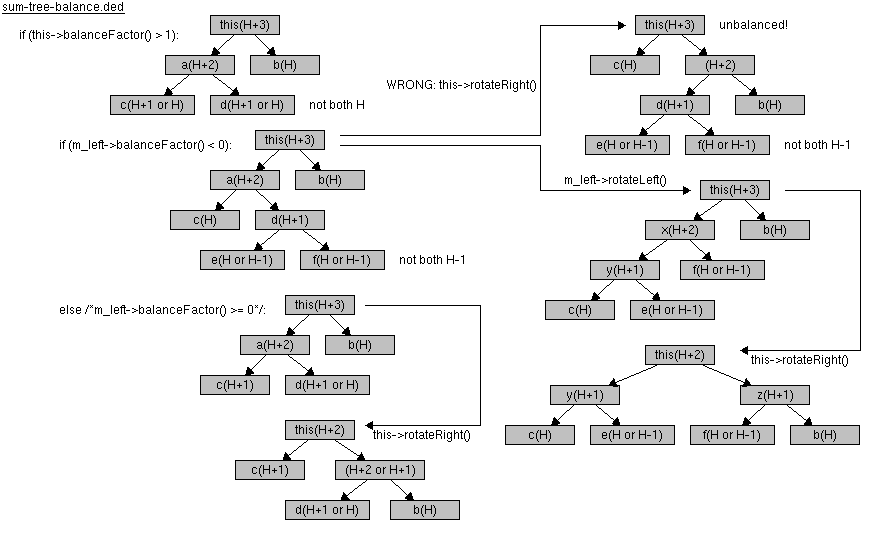
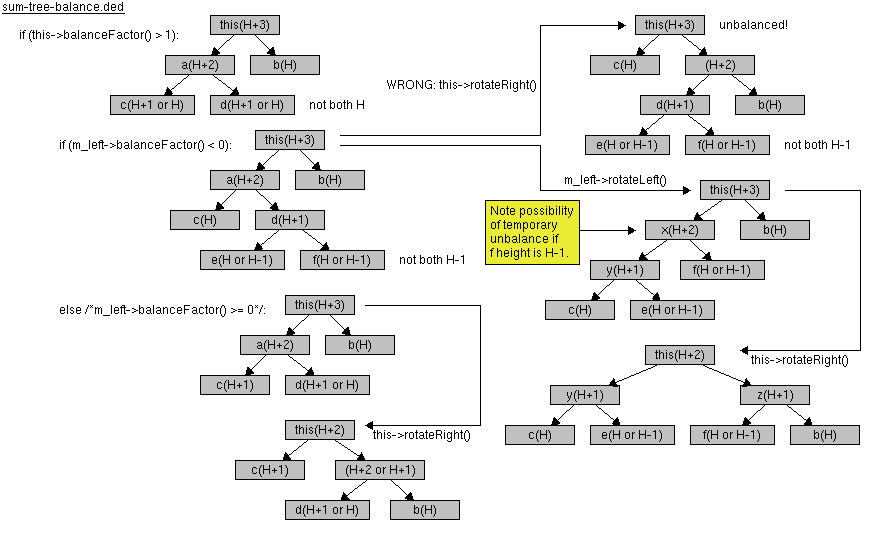
sum-tree: Add: insert.  Fix: rebuild: Cannot check invariants here.

Changed region(s): [[0.543, 0.3406, 0.6637, 0.4954]]

diff --git a/sum-tree.h b/sum-tree.h
@@ -14,7 +14,7 @@
 
 #include "sum-tree-iface.h"            // interface for this module
 
-#include "smbase/chained-cond.h"       // smbase::cc::le_le
+#include "smbase/chained-cond.h"       // smbase::cc::{le_le,z_le_lt,z_le_le}
 #include "smbase/gdvalue-unique-ptr.h" // gdv::toGDValue(std::unique_ptr)
 #include "smbase/gdvalue.h"            // gdv::GDValue
 #include "smbase/get-type-name.h"      // smbase::GetTypeName
@@ -147,7 +147,11 @@ void SumTree<T>::InteriorNode::balance()
     this->rotateLeft();
   }
 
+  // Check invariants after all rotations are finished.  When we do two,
+  // the first can temporarily unbalance its pivot node; see diagram.
   localSelfCheck();
+  m_left->localSelfCheck();
+  m_right->localSelfCheck();
 }
 
 
@@ -206,9 +210,9 @@ void SumTree<T>::InteriorNode::rebuild(NodeUPtr left, NodeUPtr right)
   m_left = std::move(left);
   m_right = std::move(right);
 
-  // Here, recomputation should suffice to restore invariants.
+  // Even after recomputation, balance invariant might be broken.  See
+  // the `sum-tree-balance.ded.png` diagram.
   localRecompute_brokenInvariants();
-  localSelfCheck();
 }
 
 
@@ -271,10 +275,22 @@ SumTree<T>::InteriorNode::operator gdv::GDValue() const
 
 
 template <typename T>
-auto SumTree<T>::InteriorNode::append(T const &t) -> NodeUPtr
+auto SumTree<T>::InteriorNode::insert(size_type index, T const &t)
+  -> NodeUPtr
 {
-  // Appends always go into right subtree.
-  m_right = m_right.release()->append(t);
+  xassertPrecondition(cc::z_le_le(index, size()));
+
+  auto leftSize = m_left->size();
+  if (index < leftSize) {
+    m_left = m_left.release()->insert(index, t);
+  }
+  else {
+    m_right = m_right.release()->insert(index - leftSize, t);
+  }
+
+  // TODO: Implement a minor optimization: If `index==leftSize`, we can
+  // insert into either subtree.  Use the balance factor to decide where
+  // to put it in order to minimize subsequent rotations.
 
   // The new right child might make this node unbalanced, but we want to
   // recompute the summary, since if this node *is* still balanced, then
@@ -303,6 +319,13 @@ SumTree<T>::Leaf::Leaf(T const &data)
 
 template <typename T>
 void SumTree<T>::Leaf::selfCheck() const
+{
+  localSelfCheck();
+}
+
+
+template <typename T>
+void SumTree<T>::Leaf::localSelfCheck() const
 {
   xassert(this->m_summary == m_data.summary());
   xassert(this->m_height == 0);
@@ -371,11 +394,22 @@ SumTree<T>::Leaf::operator gdv::GDValue() const
 
 
 template <typename T>
-auto SumTree<T>::Leaf::append(T const &t) -> NodeUPtr
+auto SumTree<T>::Leaf::insert(size_type index, T const &t) -> NodeUPtr
 {
-  return std::make_unique<InteriorNode>(
-    NodeUPtr(this),
-    std::make_unique<Leaf>(t));
+  xassertPrecondition(cc::z_le_le(index, size()));
+
+  if (index == 0) {
+    return std::make_unique<InteriorNode>(
+      std::make_unique<Leaf>(t),
+      NodeUPtr(this));
+  }
+
+  else {
+    xassert(index == 1);
+    return std::make_unique<InteriorNode>(
+      NodeUPtr(this),
+      std::make_unique<Leaf>(t));
+  }
 }
 
 
@@ -469,14 +503,24 @@ void SumTree<T>::clear()
 
 
 template <typename T>
-void SumTree<T>::append(T const &t)
+void SumTree<T>::insert(size_type index, T const &t)
 {
+  xassertPrecondition(cc::z_le_le(index, size()));
+
   if (!m_root) {
+    xassert(index == 0);
     m_root = std::make_unique<Leaf>(t);
   }
   else {
-    m_root = m_root.release()->append(t);
+    m_root = m_root.release()->insert(index, t);
   }
+}
+
+
+template <typename T>
+void SumTree<T>::append(T const &t)
+{
+  insert(size(), t);
 }
 
 

diff --git a/sum-tree-iface.h b/sum-tree-iface.h
@@ -78,6 +78,9 @@ private:     // types
     // Assert invariants, including in subtrees.
     virtual void selfCheck() const = 0;
 
+    // Assert local invariants only.
+    virtual void localSelfCheck() const = 0;
+
     // Number of elements in the subtree rooted at `this`.
     virtual size_type size() const = 0;
 
@@ -118,15 +121,19 @@ private:     // types
     // Add to `m` the members declared in `Node`.
     void writeNodeMembers(gdv::GDValue &m) const;
 
-    // Insert `t` into the subtree rooted at `this`.
+    // Insert `t` at `index` in the sequence of elements contained in
+    // the subtree rooted at `this`.
     //
     // When this method is invoked, `this` is *detached* from the tree;
     // it is effectively its own owner/unique pointer.
     //
     // Return a unique pointer to the augmented tree, which must either
-    // be `this` itself or a new node owns `this` either directly or
-    // indirectly.
-    virtual std::unique_ptr<Node> append(T const &t) = 0;
+    // be `this` itself or a new node that owns `this` either directly
+    // or indirectly.
+    //
+    // Requires: 0 <= index <= size()
+    virtual std::unique_ptr<Node> insert(
+      size_type index, T const &t) = 0;
   };
 
   using NodeUPtr = std::unique_ptr<Node>;
@@ -169,11 +176,9 @@ private:     // types
     // Computes the summary and height from the children.
     InteriorNode(NodeUPtr left, NodeUPtr right);
 
-    // Assert local invariants only.
-    void localSelfCheck() const;
-
     // Node method overrides.
     virtual void selfCheck() const override;
+    virtual void localSelfCheck() const override;
     virtual size_type size() const override;
     virtual T const &atC(size_type index) const override;
     virtual InteriorNode *asInteriorNode() override;
@@ -183,7 +188,7 @@ private:     // types
       stdfwd::vector<LookupResult> &dest /*APPEND*/,
       Summary s) const override;
     virtual operator gdv::GDValue() const override;
-    virtual NodeUPtr append(T const &t) override;
+    virtual NodeUPtr insert(size_type index, T const &t) override;
   };
 
   class Leaf : public Node {
@@ -199,6 +204,7 @@ private:     // types
 
     // Node method overrides.
     virtual void selfCheck() const override;
+    virtual void localSelfCheck() const override;
     virtual size_type size() const override;
     virtual T const &atC(size_type index) const override;
     virtual InteriorNode *asInteriorNode() override;
@@ -208,7 +214,7 @@ private:     // types
       stdfwd::vector<LookupResult> &dest /*APPEND*/,
       Summary s) const override;
     virtual operator gdv::GDValue() const override;
-    virtual NodeUPtr append(T const &t) override;
+    virtual NodeUPtr insert(size_type index, T const &t) override;
   };
 
 private:     // data
@@ -256,7 +262,14 @@ public:      // methods
   // Reset to an empty sequence.
   void clear();
 
+  // Insert `t` so it has `index` in the resulting sequence.
+  //
+  // Requires: 0 <= index <= size()
+  void insert(size_type index, T const &t);
+
   // Add `t` to the end of the sequence.
+  //
+  // Equivalent to: insert(size(), t)
   void append(T const &t);
 };
 

diff --git a/sum-tree-test.cc b/sum-tree-test.cc
@@ -6,6 +6,7 @@
 #include "smbase/gdvalue-vector.h"     // gdv::toGDValue(std::vector)
 #include "smbase/gdvalue.h"            // gdv::GDValue
 #include "smbase/sm-macros.h"          // OPEN_ANONYMOUS_NAMESPACE, EMEMB
+#include "smbase/sm-random.h"          // smbase::RandomChoice
 #include "smbase/sm-test.h"            // EXPECT_EQ
 
 #include <vector>                      // std::vector
@@ -101,6 +102,12 @@ public:      // methods
   void clear()
   {
     m_vec.clear();
+  }
+
+  void insert(size_type index, T const &t)
+  {
+    xassertPrecondition(cc::z_le_le(index, size()));
+    m_vec.insert(m_vec.begin() + index, t);
   }
 
   void append(T const &t)
@@ -224,16 +231,22 @@ public:      // methods
     return m;
   }
 
-  void append(T const &t)
-  {
-    m_sumTree.append(t);
-    m_refTree.append(t);
-  }
-
   void clear()
   {
     m_sumTree.clear();
     m_refTree.clear();
+  }
+
+  void insert(size_type index, T const &t)
+  {
+    m_sumTree.insert(index, t);
+    m_refTree.insert(index, t);
+  }
+
+  void append(T const &t)
+  {
+    m_sumTree.append(t);
+    m_refTree.append(t);
   }
 };
 
@@ -264,7 +277,7 @@ public:
 };
 
 
-void test_basics()
+void test_append()
 {
   TEST_FUNC();
 
@@ -394,7 +407,7 @@ void test_basics()
     ]
   )"));
 
-  for (int i=0; i < 20; ++i) {
+  for (int i=0; i < 10; ++i) {
     EXN_CONTEXT_EXPR(i);
     both.append({i});
     both.selfCheck();
@@ -420,13 +433,58 @@ void test_basics()
 }
 
 
+void test_insert()
+{
+  TEST_FUNC();
+
+  using BT = BothTrees<SummarizableInt>;
+
+  int const OUTER_ITERS =
+    envRandomizedTestIters(5, "STT_INSERT_OUTER_ITERS", 2);
+  int const INNER_ITERS =
+    envRandomizedTestIters(50, "STT_INSERT_INNER_ITERS", 2);
+
+  smbase_loopi(OUTER_ITERS) {
+    EXN_CONTEXT_EXPR(i);
+
+    BT both;
+    both.selfCheck();
+
+    smbase_loopj(INNER_ITERS) {
+      EXN_CONTEXT_EXPR(j);
+
+      RandomChoice choice(40);
+      if (choice.check(1)) {
+        both.clear();
+      }
+
+      else if (choice.check(2)) {
+        int value = sm_random(30);
+
+        both.append(SummarizableInt{value});
+      }
+
+      else {
+        int position = sm_random(both.size()+1);
+        int value = sm_random(30);
+
+        both.insert(position, SummarizableInt{value});
+      }
+
+      both.selfCheck();
+    }
+  }
+}
+
+
 CLOSE_ANONYMOUS_NAMESPACE
 
 
 // Called from unit-tests.cc.
 void test_sum_tree()
 {
-  test_basics();
+  test_append();
+  test_insert();
 }
 
 
